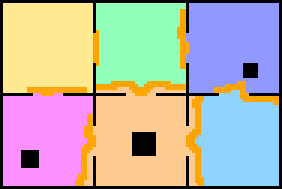
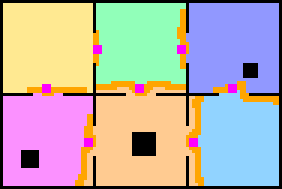
feat(segmentation): doorway records and region topology (Doorway, SegmentationResult.doorways)
- region generation unchanged: maximin flooding + merge-tree saddle merge
- _connection_values records saddle cells; doorways derived from geodesic
  dilation contact bands (plain dilation crosses walls/ridges), local saddle
  at max-dist contact cell, width ~= 2x clearance, corner-diagonal adjacency
  filtered by clearance floor
- render overlays magenta doorway markers; render_map CLI prints topology edges
- test_topology.py: two-rooms single door / corridor star topology / grid
  7 doors / no door after merge; 41 pytest passing

diff --git a/src/oomwoo_cleaning_jobs_core/oomwoo_cleaning_jobs_core/segmentation.py b/src/oomwoo_cleaning_jobs_core/oomwoo_cleaning_jobs_core/segmentation.py
@@ -26,7 +26,7 @@
 from __future__ import annotations
 
 import heapq
-from dataclasses import dataclass
+from dataclasses import dataclass, field
 
 import cv2
 import numpy as np
@@ -60,6 +60,9 @@ class SegmentationParams:
     #: 鞍部合并阈值：鞍部 >= ratio × 较小峰高时合并相邻区域。
     #: 1.0 以上等价于禁用；真门洞比值通常 < 0.5，同片开阔地的伪分割 ≥ 1.0。
     saddle_merge_ratio: float = 0.8
+    #: 门口记录的 likely_door 判定门宽范围（米）
+    min_door_width_m: float = 0.30
+    max_door_width_m: float = 1.30
 
 
 @dataclass(frozen=True)
@@ -72,6 +75,24 @@ class CandidateRegion:
     low_confidence: bool
 
 
+@dataclass(frozen=True)
+class Doorway:
+    """两个 Region 间的门口记录（拓扑边）。
+
+    center 是两区域接触带中 dist 最大的 cell（局部山口）；clearance_m 是
+    山口高度（瓶颈半宽）；width_m ≈ 2 × clearance（经典近似）；
+    ratio = clearance / min(两侧峰高)（越大越像同一片开阔空间）；
+    likely_door = width_m 落在门宽范围内。
+    """
+
+    regions: tuple[int, int]
+    center: tuple[int, int]  # (row, col)，cells 行序
+    width_m: float
+    clearance_m: float
+    ratio: float
+    likely_door: bool
+
+
 @dataclass
 class SegmentationResult:
     """分割结果。labels 与 SourceMap.cells 同行序（row 0 = 最底行）。"""
@@ -80,6 +101,7 @@ class SegmentationResult:
     regions: list[CandidateRegion]
     free_mask: np.ndarray
     params: SegmentationParams
+    doorways: list[Doorway] = field(default_factory=list)
 
     @property
     def unclassified_free_mask(self) -> np.ndarray:
@@ -88,6 +110,17 @@ class SegmentationResult:
 
     def mask_of(self, label: int) -> np.ndarray:
         return self.labels == label
+
+    def adjacent_labels(self, label: int) -> set[int]:
+        """拓扑邻接：通过门口与该 Region 相连的其他 Region。"""
+        out: set[int] = set()
+        for doorway in self.doorways:
+            a, b = doorway.regions
+            if a == label:
+                out.add(b)
+            elif b == label:
+                out.add(a)
+        return out
 
 
 def segment(source_map: SourceMap, params: SegmentationParams | None = None) -> SegmentationResult:
@@ -131,6 +164,7 @@ def segment(source_map: SourceMap, params: SegmentationParams | None = None) -> 
     labels = _merge_small_regions(labels, dist, free, min_cells, low_conf)
     labels = _merge_by_saddle(labels, dist, free, params.saddle_merge_ratio, low_conf)
     labels = _mark_ridges(labels)
+    doorways = _find_doorways(labels, dist, free, params, res)
 
     regions = []
     for label in sorted(int(v) for v in np.unique(labels) if v != UNCLASSIFIED):
@@ -141,7 +175,8 @@ def segment(source_map: SourceMap, params: SegmentationParams | None = None) -> 
             area_m2=cell_count * res * res,
             low_confidence=label in low_conf,
         ))
-    return SegmentationResult(labels=labels, regions=regions, free_mask=free, params=params)
+    return SegmentationResult(labels=labels, regions=regions, free_mask=free,
+                              params=params, doorways=doorways)
 
 
 def _maximin_watershed(dist: np.ndarray, markers: np.ndarray, free: np.ndarray) -> np.ndarray:
@@ -205,7 +240,7 @@ def _merge_small_regions(
                 continue
             candidates = [
                 (saddle, b if a == value else a)
-                for (a, b), saddle in saddles.items()
+                for (a, b), (saddle, _cell, _direct) in saddles.items()
                 if a == value or b == value
             ]
             if not candidates:
@@ -227,20 +262,26 @@ def _merge_small_regions(
     return labels
 
 
-def _connection_values(labels: np.ndarray, dist: np.ndarray, free: np.ndarray) -> dict[tuple[int, int], float]:
-    """区域对 -> 真实山口高度：两区域在 ``dist >= W`` 的超水平集内连通的**最大** W。
+def _connection_values(
+    labels: np.ndarray,
+    dist: np.ndarray,
+    free: np.ndarray,
+) -> dict[tuple[int, int], tuple[float, tuple[int, int], bool]]:
+    """区域对 -> (山口高度 W, 山口 cell, direct)：两区域在 ``dist >= W`` 的
+    超水平集内连通的**最大** W，以及首次连通处的 cell（瓶颈点）。
 
     等价于分水岭合并树（merge tree / persistence）：按 dist 降序扫描
     free cell 并查集合并，首次把两个不同 label 的集合连通时的 dist
-    即两区域间最宽通路的瓶颈。与最终分界线落在哪里无关——接触式鞍部
-    （共享边界上的 dist）会随分界线摆动而高估/低估，已弃用。
-    """
+    即两区域间最宽通路的瓶颈。与最终分界线落在哪里无关。
+
+    direct=False 表示该连接途经第三方区域（合并集合已含其他 label），
+    是传递连接而非直接相邻——合并与门口记录只应使用 direct=True。"""
     h, w = dist.shape
     cells = np.argwhere(free)
     order = np.argsort(-dist[free], kind='stable')
     parent: dict[int, int] = {}
     labelsets: dict[int, set[int]] = {}
-    connections: dict[tuple[int, int], float] = {}
+    connections: dict[tuple[int, int], tuple[float, tuple[int, int], bool]] = {}
 
     def find(x: int) -> int:
         root = x
@@ -265,12 +306,13 @@ def _connection_values(labels: np.ndarray, dist: np.ndarray, free: np.ndarray) -
             ra, rb = find(x), find(y)
             if ra == rb:
                 continue
+            direct = len(labelsets[ra]) == 1 and len(labelsets[rb]) == 1
             for la in labelsets[ra]:
                 for lb in labelsets[rb]:
                     if la != lb:
                         key = (min(la, lb), max(la, lb))
                         if key not in connections:
-                            connections[key] = float(dist[r, c])
+                            connections[key] = (float(dist[r, c]), (r, c), direct)
             if len(labelsets[ra]) < len(labelsets[rb]):
                 ra, rb = rb, ra
             parent[rb] = ra
@@ -305,7 +347,7 @@ def _merge_by_saddle(
             v = parent[v]
         return v
 
-    for (a, b), saddle in _connection_values(labels, dist, free).items():
+    for (a, b), (saddle, _cell, _direct) in _connection_values(labels, dist, free).items():
         if saddle >= ratio * min(peaks[a], peaks[b]):
             parent[find(a)] = find(b)
 
@@ -323,6 +365,65 @@ def _merge_by_saddle(
         if target != v:
             out[labels == v] = target
     return out
+
+
+def _find_doorways(
+    labels: np.ndarray,
+    dist: np.ndarray,
+    free: np.ndarray,
+    params: SegmentationParams,
+    res: float,
+) -> list[Doorway]:
+    """为最终 Region 拓扑生成门口记录。
+
+    门口区域对 = 最终标记中空间相邻（接触带 <=2 cell 的脊线/未分类）的
+    区域对。山口 center 与 clearance 取两区域公共接触带中 dist 最大的
+    cell（局部山口）。门宽 ≈ 2 × clearance（瓶颈半宽经典近似）。
+
+    注意：不用合并树的 direct 标记判定相邻——同一层级先连通的区域会
+    把后连通的实际相邻对标记为传递连接（先开的门"吸收"了区域）。
+    同一对区域间若有多扇门，只记录山口最高的一扇。
+    """
+    kernel3 = np.ones((3, 3), dtype=np.uint8)
+
+    def geo_dilate(mask: np.ndarray, steps: int = 2) -> np.ndarray:
+        """测地膨胀：只在 free 内扩张，不穿墙。"""
+        out = mask & free
+        for _ in range(steps):
+            out = (cv2.dilate(out.astype(np.uint8), kernel3) > 0) & free
+        return out
+
+    values = [int(v) for v in np.unique(labels) if v != UNCLASSIFIED]
+    dilated: dict[int, np.ndarray] = {
+        v: geo_dilate(labels == v) for v in values
+    }
+    peaks = {v: float(dist[labels == v].max()) for v in values}
+    doorways: list[Doorway] = []
+    for i, a in enumerate(values):
+        for b in values[i + 1:]:
+            contact = dilated[a] & dilated[b]
+            if not contact.any():
+                continue
+            # 局部山口 = 接触带中 dist 最大的 cell
+            contact_dist = np.where(contact, dist, -np.inf)
+            center = tuple(
+                int(v) for v in np.unravel_index(contact_dist.argmax(), dist.shape))
+            clearance = float(dist[center])
+            # 墙角对角相邻（十字墙交叉处）的接触带 clearance 极低，滤除
+            if clearance < params.min_door_width_m / 2:
+                continue
+            # 门宽 ≈ 2 × 山口 clearance（瓶颈中点到两侧障碍距离之和的
+            # 经典近似；实测方向采样对接触带 1-2 cell 的偏移过于敏感）
+            width_m = 2.0 * clearance
+            doorways.append(Doorway(
+                regions=(a, b),
+                center=center,
+                width_m=width_m,
+                clearance_m=clearance,
+                ratio=clearance / max(min(peaks[a], peaks[b]), 1e-6),
+                likely_door=params.min_door_width_m <= width_m <= params.max_door_width_m,
+            ))
+    return doorways
 
 
 def _mark_ridges(labels: np.ndarray) -> np.ndarray:

diff --git a/src/oomwoo_cleaning_jobs_core/test/test_topology.py b/src/oomwoo_cleaning_jobs_core/test/test_topology.py
@@ -1,0 +1,76 @@
+"""门口记录与拓扑（混合路线）测试。
+
+区域生成仍是 maximin 淹没 + 合并树；门口记录由合并树山口给出，
+包含 center（山口 cell）、width_m（实测门宽）、clearance_m（山口高度）。
+"""
+
+from fixtures import (
+    make_corridor_apartment_map,
+    make_open_plan_map,
+    make_room_grid_map,
+    make_tiny_room_map,
+    make_two_rooms_map,
+)
+
+from oomwoo_cleaning_jobs_core.segmentation import segment
+
+
+def test_two_rooms_single_doorway():
+    """双房间由一扇 0.5 m 门连接：恰一条拓扑边，位置在内墙门洞处。"""
+    result = segment(make_two_rooms_map())
+    assert len(result.regions) == 2
+    assert len(result.doorways) == 1
+    doorway = result.doorways[0]
+    labels = {r.label for r in result.regions}
+    assert set(doorway.regions) == labels
+    assert 0.35 <= doorway.width_m <= 0.65
+    # 门洞在内墙 col 30、rows 35-44
+    row, col = doorway.center
+    assert 33 <= row <= 46
+    assert 28 <= col <= 32
+    assert doorway.likely_door
+
+
+def test_corridor_apartment_star_topology():
+    """走廊户型：4 条拓扑边，每条都是 房间<->走廊（星型拓扑）。"""
+    source, _room_cols = make_corridor_apartment_map(n_rooms=4)
+    result = segment(source)
+    assert len(result.regions) == 5
+    assert len(result.doorways) == 4
+    # 走廊是出现在所有边上的那个 label
+    counts: dict[int, int] = {}
+    for doorway in result.doorways:
+        for label in doorway.regions:
+            counts[label] = counts.get(label, 0) + 1
+    corridor_label = max(counts, key=counts.get)
+    assert counts[corridor_label] == 4
+    for doorway in result.doorways:
+        assert corridor_label in doorway.regions
+        assert doorway.likely_door
+    # 邻接查询
+    assert len(result.adjacent_labels(corridor_label)) == 4
+
+
+def test_grid6_seven_doorways():
+    """3x2 房间网格：7 扇门（4 横 + 3 纵）= 7 条拓扑边，门宽均 ≈0.5 m。"""
+    source, _rooms = make_room_grid_map(3, 2)
+    result = segment(source)
+    assert len(result.regions) == 6
+    assert len(result.doorways) == 7
+    for doorway in result.doorways:
+        assert 0.35 <= doorway.width_m <= 0.65
+        assert doorway.likely_door
+
+
+def test_merged_regions_have_no_doorway():
+    """宽开口（鞍部合并为 1 个区域）与极小房间（面积合并）均无拓扑边。"""
+    assert len(segment(make_open_plan_map(opening_cells=26)).doorways) == 0
+    assert len(segment(make_tiny_room_map()).doorways) == 0
+
+
+def test_doorway_clearance_below_merge_threshold():
+    """保留下来的门口其 ratio 必低于鞍部合并阈值（否则已被合并）。"""
+    source, _rooms = make_room_grid_map(3, 2)
+    result = segment(source)
+    for doorway in result.doorways:
+        assert doorway.ratio < result.params.saddle_merge_ratio

diff --git a/src/oomwoo_cleaning_jobs_core/oomwoo_cleaning_jobs_core/render_map.py b/src/oomwoo_cleaning_jobs_core/oomwoo_cleaning_jobs_core/render_map.py
@@ -81,6 +81,13 @@ def main(argv=None) -> int:
         unclassified = int(result.unclassified_free_mask.sum())
         print(f'未分类   : {unclassified} cells '
               f'({unclassified / max(free, 1):.1%} of free)')
+        print(f'门口     : {len(result.doorways)} 条拓扑边')
+        for doorway in result.doorways:
+            a, b = doorway.regions
+            mark = '门' if doorway.likely_door else '窄缝'
+            print(f'  #{a} <-> #{b}: 宽 {doorway.width_m:.2f} m, '
+                  f'clearance {doorway.clearance_m:.2f} m, '
+                  f'ratio {doorway.ratio:.2f} [{mark}]')
         seg_out = (Path(args.seg_out) if args.seg_out
                    else yaml_path.with_suffix('.segments.png'))
         assert cv2.imwrite(

diff --git a/src/oomwoo_cleaning_jobs_core/oomwoo_cleaning_jobs_core/render.py b/src/oomwoo_cleaning_jobs_core/oomwoo_cleaning_jobs_core/render.py
@@ -59,6 +59,13 @@ def render_segmentation(
         a = alpha * (0.5 if region.low_confidence else 1.0)
         img[mask] = (1 - a) * img[mask] + a * color
     img[result.unclassified_free_mask] = COLOR_UNCLASSIFIED
+    # 门口标记：likely_door 品红实心块，其余灰色空心块（cells 行序）
+    for doorway in result.doorways:
+        r, c = doorway.center
+        color = (255, 0, 255) if doorway.likely_door else (128, 128, 128)
+        r0, r1 = max(0, r - 1), min(img.shape[0], r + 2)
+        c0, c1 = max(0, c - 1), min(img.shape[1], c + 2)
+        img[r0:r1, c0:c1] = color
     out = _to_image_orientation(img.astype(np.uint8))
     if scale != 1:
         out = cv2.resize(

diff --git a/docs/DEVELOPMENT.md b/docs/DEVELOPMENT.md
@@ -64,7 +64,7 @@ hash 的角色是**变更检测器与存储键**，不是多地图管理。saved
 
 trinary 加载：`occ = 1 - color/255`（negate=0）；`occ >= occupied_thresh` → 100，`occ <= free_thresh` → 0，否则 -1；`alpha < 255` 一律 unknown；图像顶行对应地图最大 y，加载后垂直翻转。map_saver 固定写像素 0(occupied)/254(free)/205(unknown) 并配 `occupied_thresh: 0.65, free_thresh: 0.196`（205 借此回读为 unknown）。核心库加载器 `map_io.load_map_file` 与上述行为对齐，仅支持 trinary。
 
-已实现：`src/oomwoo_cleaning_jobs_core`（ament_python）含 `source_map.SourceMap`（identity/掩码）、`map_io`、`segmentation`（watershed 分割）、`render`/`render_map` CLI（`oomwoo-render-map`，`--segment` 出叠加图）；`test/` 下合成地图夹具（`fixtures`：双房间/含未知块/开间/极小房间/开放式双区/N 房间网格/走廊户型）与 36 个 pytest，`colcon build/test` 与直接 `pytest` 均已验证通过。演示输出在 `docs/demo/`（真实 living_room 与合成双房间的分割效果图）。
+已实现：`src/oomwoo_cleaning_jobs_core`（ament_python）含 `source_map.SourceMap`（identity/掩码）、`map_io`、`segmentation`（watershed 分割）、`render`/`render_map` CLI（`oomwoo-render-map`，`--segment` 出叠加图）；`test/` 下合成地图夹具（`fixtures`：双房间/含未知块/开间/极小房间/开放式双区/N 房间网格/走廊户型）与 41 个 pytest，`colcon build/test` 与直接 `pytest` 均已验证通过。演示输出在 `docs/demo/`（真实 living_room 与合成双房间的分割效果图）。
 
 分割已知特性：maximin 淹没 + 合并树鞍部合并后，真实 living_room（单房间多家具）在 ratio 0.5–0.8 全区间精确收敛为 1 个候选、0 未分类；5/6/7 房间网格、4 房间+走廊户型、贴墙家具场景均精确分出预期房间数；真门洞（0.5 m）不被误并，宽开口（1.3 m）正确合并。残留边界情形：小房间配宽门（比值 0.6–0.8 区间）可能误并/误分，由 GUI 手动编辑修正；距离值低于 `min_peak_height_m` 的狭窄地带不产生种子，留在未分类；0.5 m 宽的家具缝隙与 0.5 m 门洞在几何上不可区分（语义问题），依赖用户审核候选。
 
@@ -77,7 +77,9 @@ trinary 加载：`occ = 1 - color/255`（negate=0）；`occ >= occupied_thresh` 
 - 形态学 closing 预处理对薄墙有害（腐蚀碎裂墙网），仅适合真实噪声地图。
 - 门口/拓扑作为一等公民是该方案的真实价值（阶段二 Segment 排序与导航需要）；后续可考虑混合：watershed 出区域 + 合并树山口作为门口记录。
 
-演示图：`docs/demo/doorway/`（三联图：骨架+门口候选 / 切割线 / 最终区域）。
+**混合路线已实现**（segmentation.py）：区域生成保持 maximin 淹没 + 合并树；`SegmentationResult.doorways` 输出门口记录（`Doorway`：相邻区域对、山口 center、clearance、width ≈ 2×clearance、ratio、likely_door），`adjacent_labels()` 给出拓扑邻接。实现要点：相邻对用**测地膨胀接触带**（普通膨胀会穿墙、会多跨脊线）判定；墙角对角相邻按 clearance 下限滤除；同一对区域多扇门只记录山口最高的一扇。渲染叠加品红门口标记，CLI 打印拓扑边。测试 `test_topology.py`（41 个 pytest 总计）。
+
+演示图：`docs/demo/`（主方案分割+门口标记）与 `docs/demo/doorway/`（门口切割方案三联图）。
 
 ### 自动分割
 
